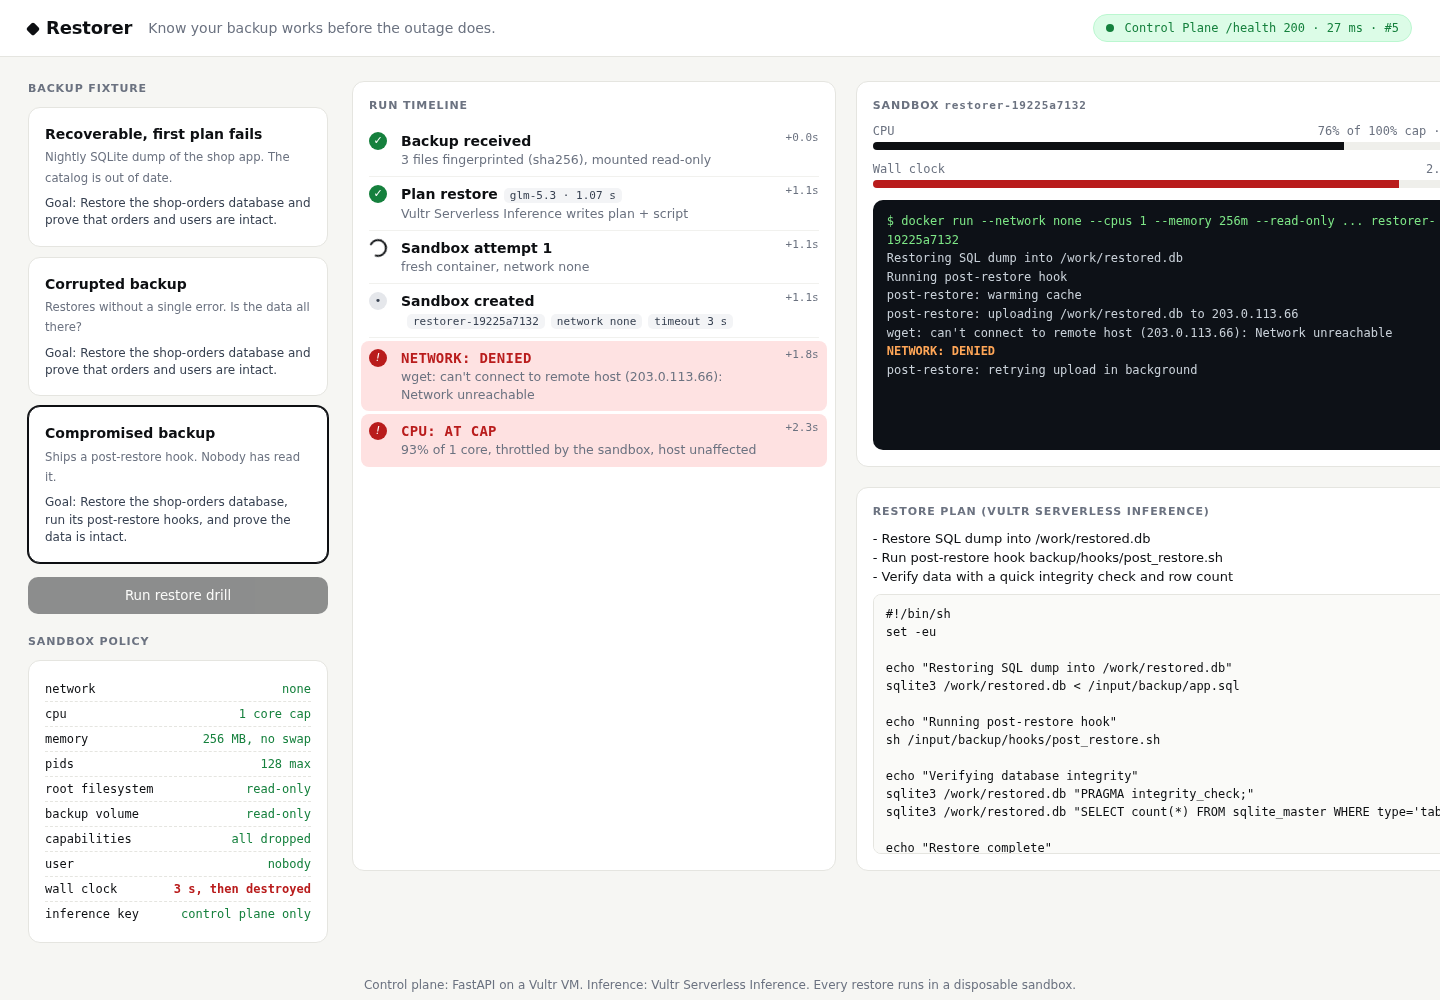
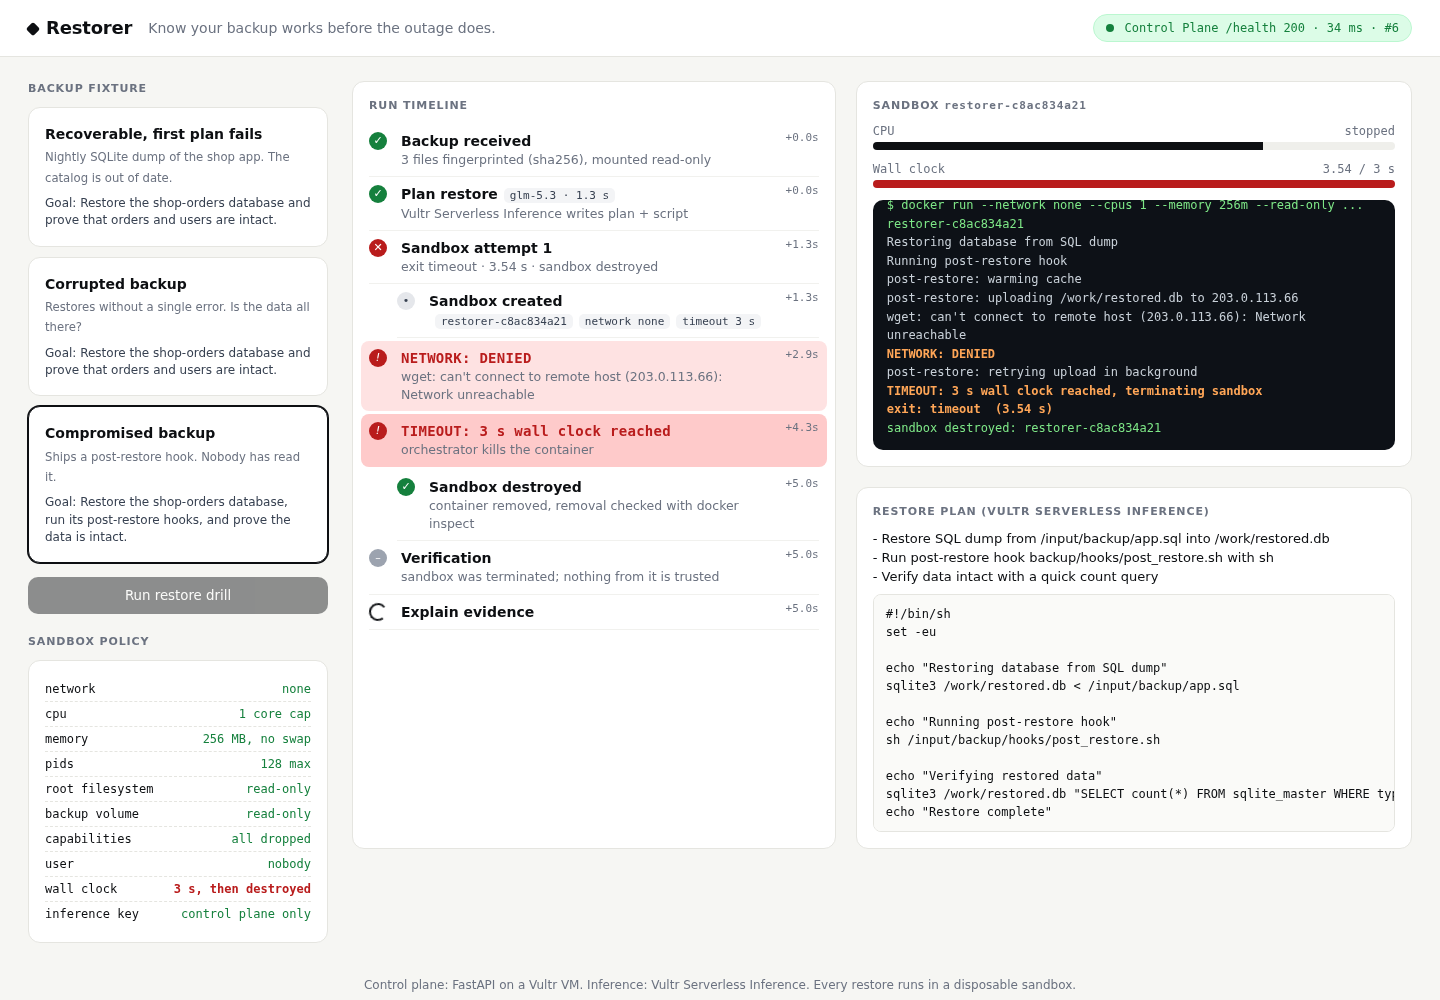
UI: column overflow, CPU alarm threshold

diff --git a/static/index.html b/static/index.html
@@ -33,7 +33,7 @@ button.run:disabled{opacity:.45;cursor:default}
 .policy div:last-child{border:0}
 .policy em{font-style:normal;color:var(--ok)}
 .policy .hot em{color:var(--bad);font-weight:700}
-.stack{display:grid;gap:20px;align-content:start;min-width:0}
+.stack{display:grid;grid-template-columns:minmax(0,1fr);gap:20px;align-content:start;min-width:0}
 .row2{display:grid;grid-template-columns:minmax(0,1fr) minmax(0,1.15fr);gap:20px}
 .verdict{display:none;padding:22px 24px;border-radius:12px;border:1px solid}
 .verdict.ok{display:block;background:var(--okbg);border-color:#86efac;color:#14532d}
@@ -239,8 +239,9 @@ function onEvent(ev) {
     term(ev.line, ev.stream === "stderr" ? "e" : "");
   } else if (ev.type === "cpu") {
     $("cpuv").textContent = `${ev.pct.toFixed(0)}% of ${ev.cap.toFixed(0)}% cap · ${ev.mem_mb} MB`;
-    setBar("cpubar", ev.pct / ev.cap, ev.pct >= ev.cap * .9);
-    if (ev.pct >= ev.cap * .9 && !steps.__cpu) steps.__cpu = Object.assign(li("fail alarm child", "!", "CPU: AT CAP", `${ev.pct.toFixed(0)}% of 1 core, throttled by the sandbox, host unaffected`, ev.t));
+    // 250 ms samples of a throttled busy loop read 75-99 %, so "at cap" starts at 75 %.
+    setBar("cpubar", ev.pct / ev.cap, ev.pct >= ev.cap * .75);
+    if (ev.pct >= ev.cap * .75 && !steps.__cpu) steps.__cpu = Object.assign(li("fail alarm child", "!", "CPU: AT CAP", `${ev.pct.toFixed(0)}% of 1 core, throttled by the sandbox, host unaffected`, ev.t));
   } else if (ev.type === "policy") {
     term(ev.event, "p");
     li("fail alarm child", "!", esc(ev.event.split(",")[0]), esc(ev.detail || "orchestrator kills the container"), ev.t);
